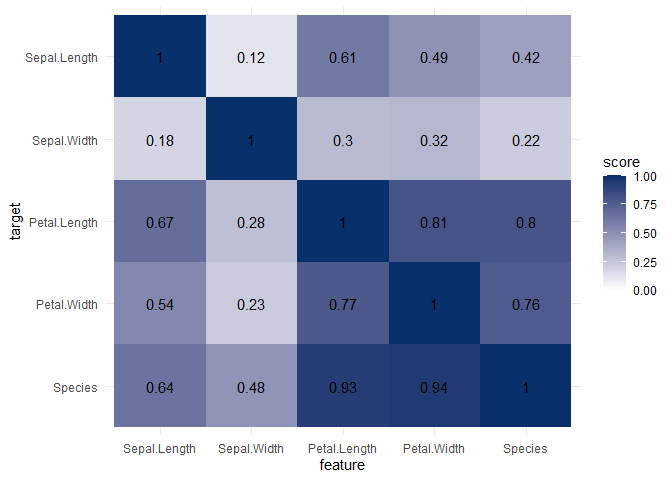
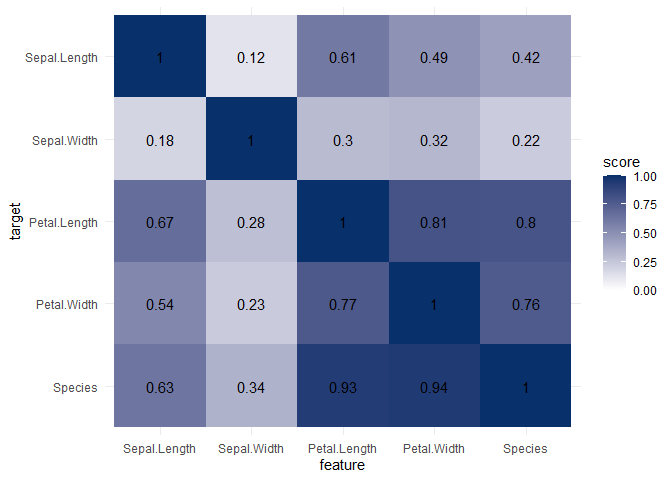
expands ggplot2 gradients limits

Changed region(s): [[0.25, 0.7188, 0.4688, 0.9062]]

diff --git a/README.md b/README.md
@@ -65,16 +65,16 @@ ppsr::score(x = iris$Sepal.Length, y = iris$Sepal.Width)
 ``` r
 ppsr::score_predictors(df = iris, y = 'Species')
 #> $Sepal.Length
-#> [1] 0.6133851
+#> [1] 0.628054
 #> 
 #> $Sepal.Width
-#> [1] 0.3896038
+#> [1] 0.4262276
 #> 
 #> $Petal.Length
-#> [1] 0.9334725
+#> [1] 0.9357549
 #> 
 #> $Petal.Width
-#> [1] 0.9369163
+#> [1] 0.9389144
 #> 
 #> $Species
 #> [1] 1
@@ -87,7 +87,7 @@ ppsr::score_matrix(df = iris)
 #> Sepal.Width     0.1822185   1.0000000    0.3000489   0.3174639 0.2237120
 #> Petal.Length    0.6687765   0.2815605    1.0000000   0.8072795 0.7972117
 #> Petal.Width     0.5436489   0.2301854    0.7732164   1.0000000 0.7630875
-#> Species         0.6096471   0.4364693    0.9331635   0.9387910 1.0000000
+#> Species         0.6013474   0.3393096    0.9338392   0.9349475 1.0000000
 ```
 
 ## Visualizing PPS
